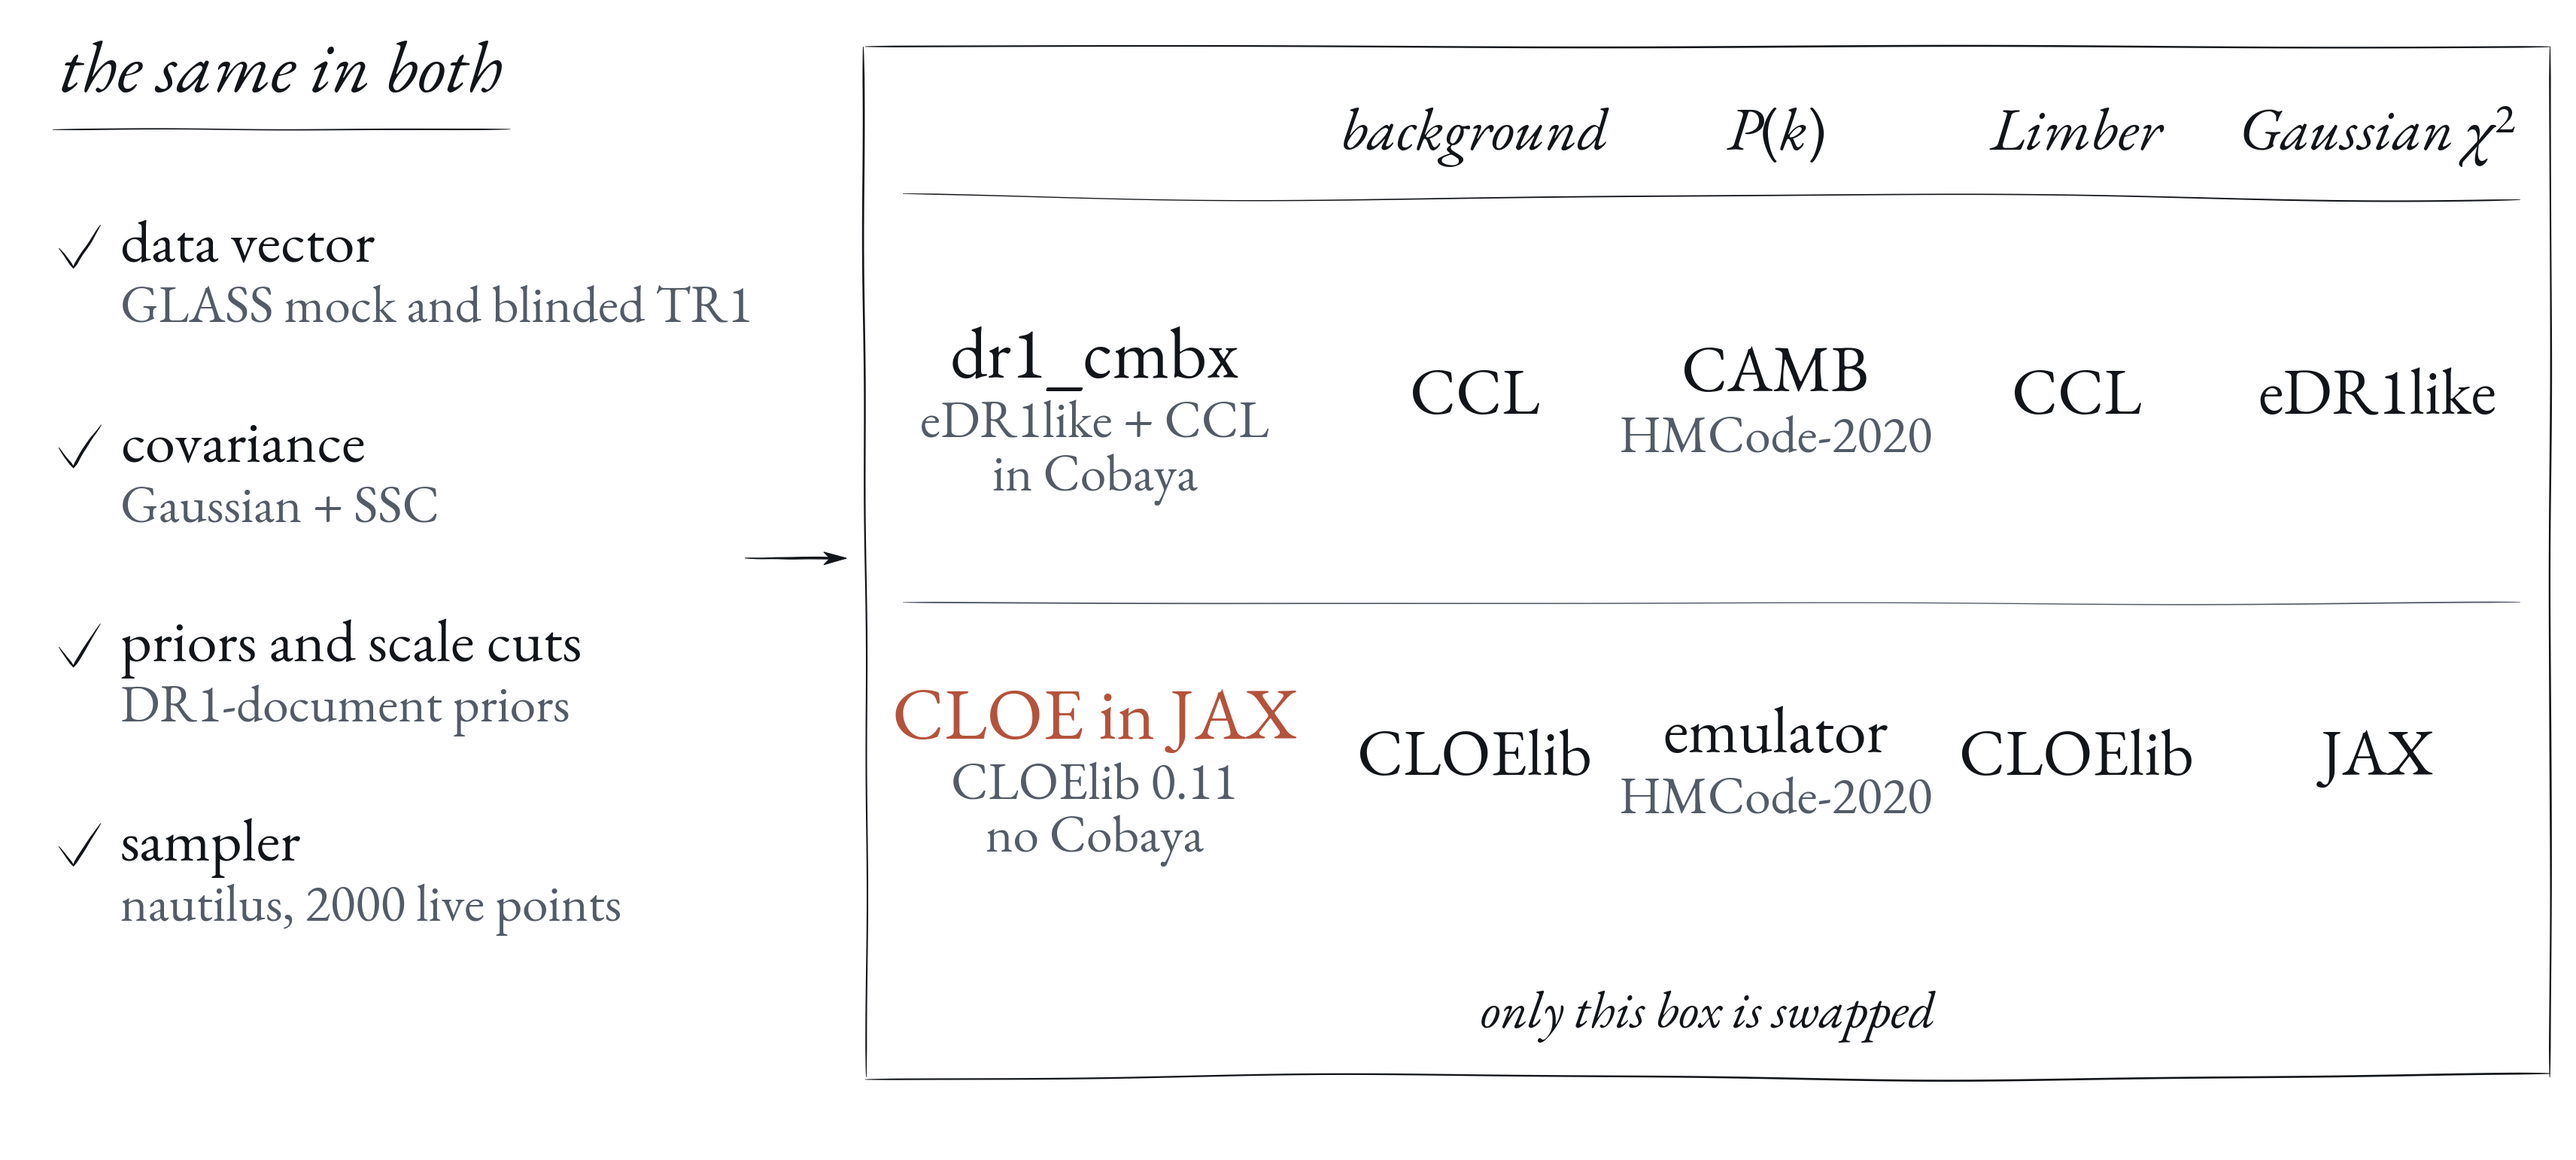
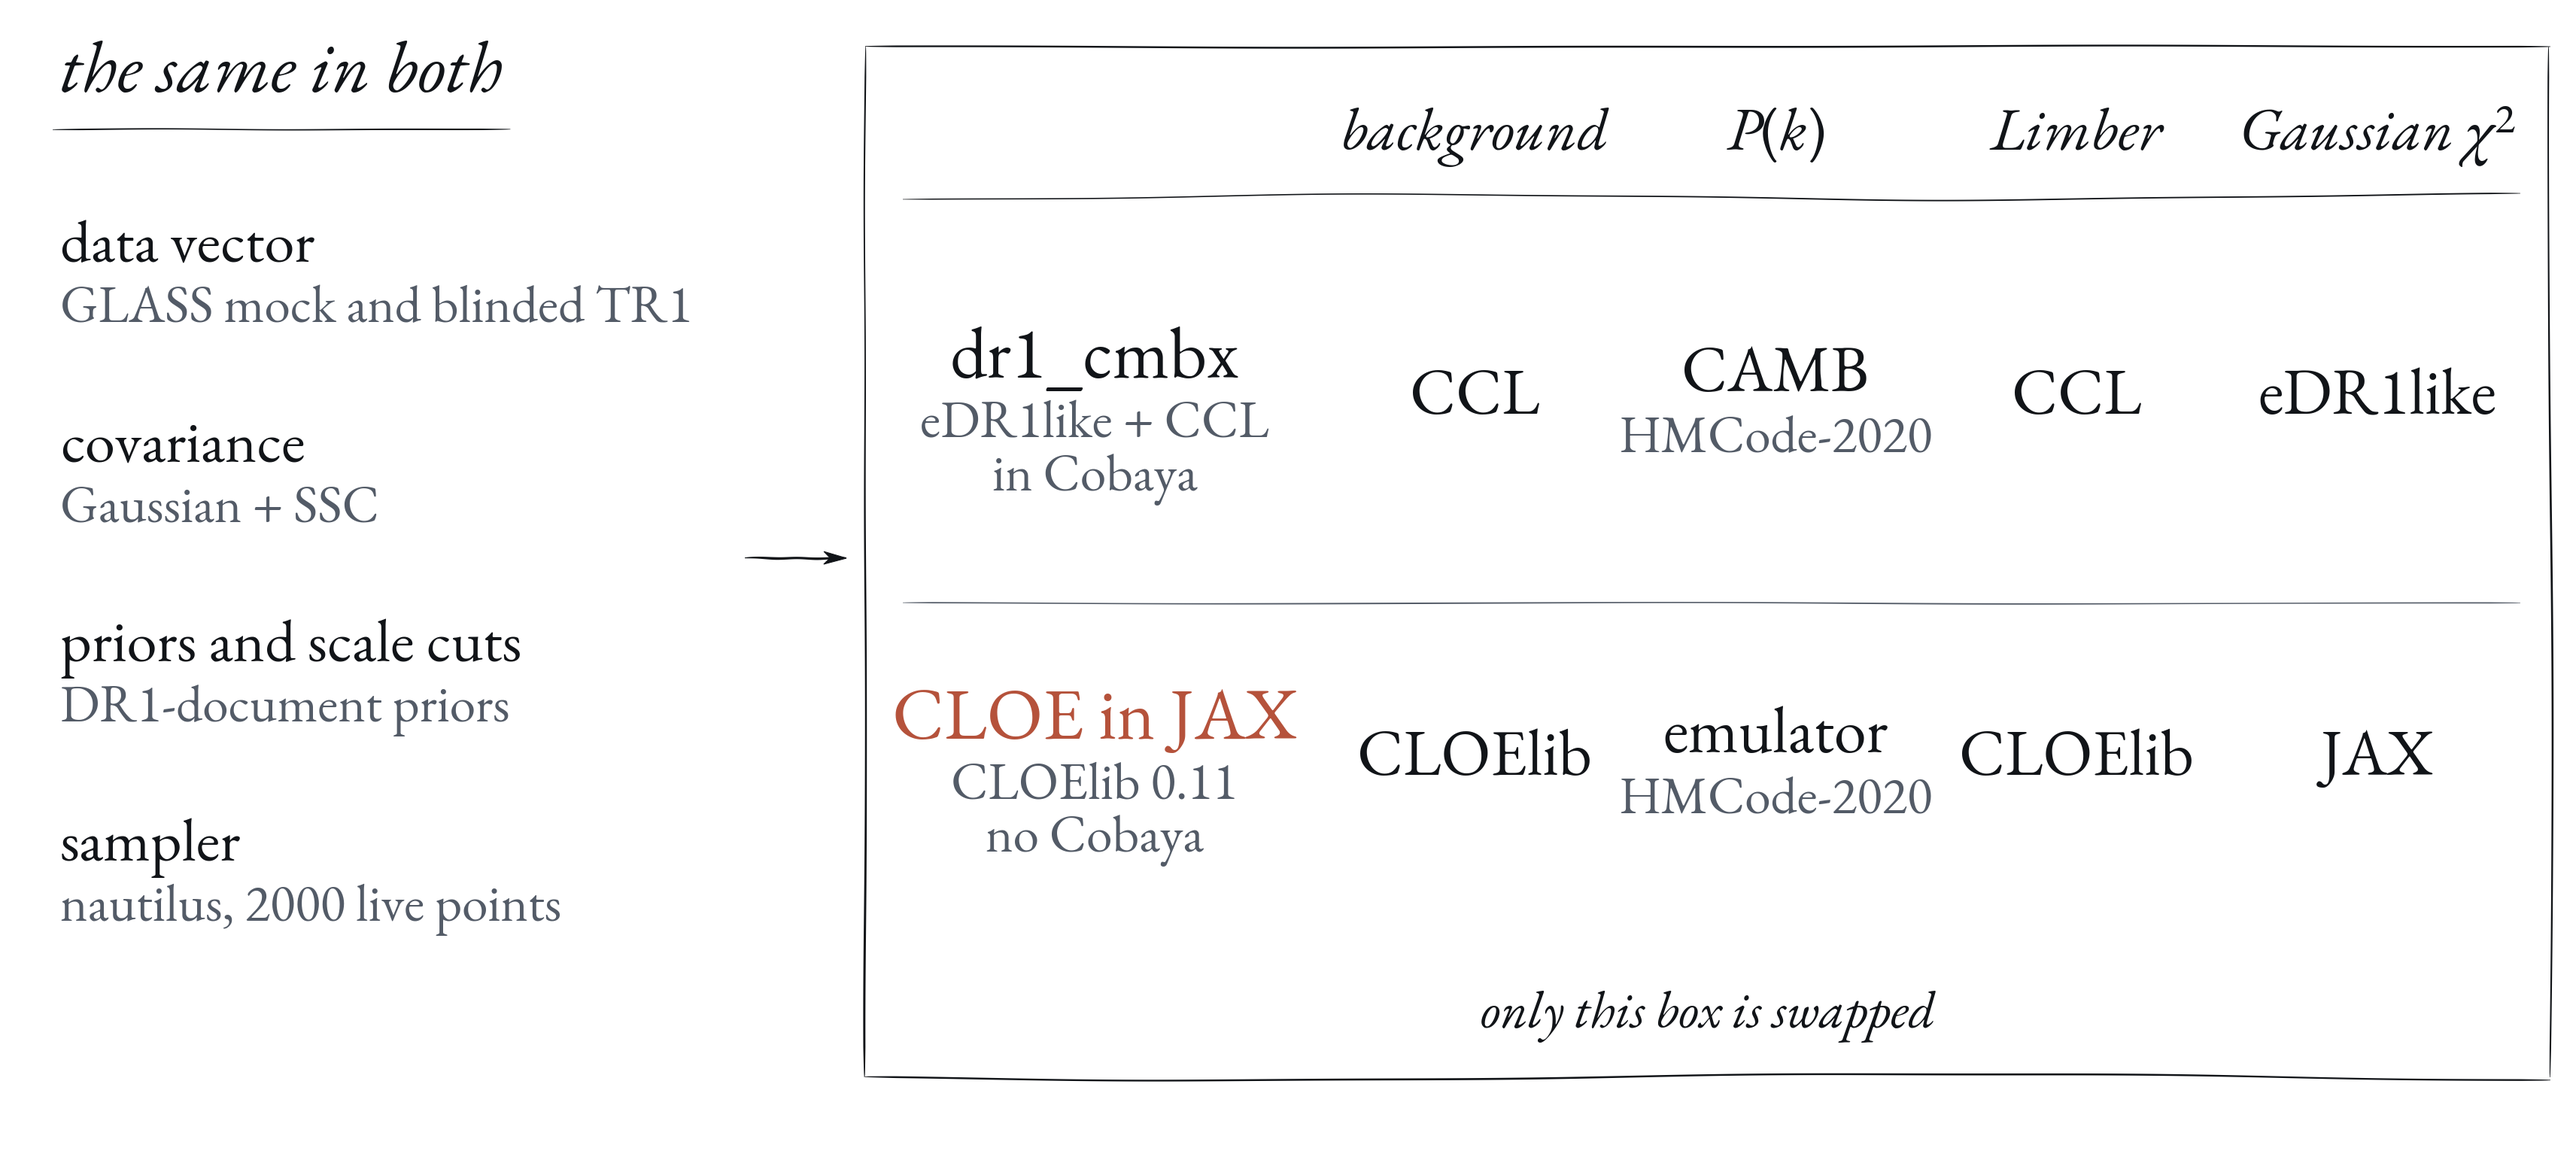
Paris SWG deck: chain sketch splits theory into background, P(k, z) and the Limber integral; no ticks on the two-likelihoods sketch
Claude-Session: https://claude.ai/code/session_01JK7o9DXfGPZtTDC4WevrY1

diff --git a/2611_Paris_SWG/slides/cloe-anatomy.html b/2611_Paris_SWG/slides/cloe-anatomy.html
@@ -1,14 +1,14 @@
 <section data-layout="figure">
   <h2>Three levels of a cosmology chain</h2>
   <figure>
-    <img src="images/paris26_sketch_anatomy.png" alt="Sketch of a chain as one loop of three arrows: the nautilus sampler, over 38 parameters, proposes theta; the theory, cosmology and nuisances through the Limber projection to the 5×2pt bandpowers (90 pairs, 651 bands, no κκ), predicts t(theta); the Gaussian likelihood, chi-squared of the data d minus t(theta) with the Gaussian plus SSC covariance C, returns ln L to the sampler, which proposes again">
+    <img src="images/paris26_sketch_anatomy.png" alt="Sketch of a chain as one loop of three arrows: the nautilus sampler, over 38 parameters, proposes theta; the theory takes cosmology and nuisances to the background (the geometry) and P(k, z) (the structure), projects them with the Limber line-of-sight integral to the 5×2pt bandpowers (90 pairs, 651 bands, no κκ) and so predicts t(theta); the Gaussian likelihood, chi-squared of the data d minus t(theta) with the Gaussian plus SSC covariance C, returns ln L to the sampler, which proposes again">
   </figure>
   <aside class="notes">
     <ul class="skim">
       <li><strong>The loop</strong> — one evaluation goes once around: the sampler proposes a point $\theta$, the theory predicts the data vector $t(\theta)$ there, the likelihood compares it with the data and returns $\ln L$, and the sampler uses it to propose the next point.</li>
       <li><strong>Sampler</strong> — nautilus (nested sampling) draws a point $\theta$ in the 38 sampled parameters of the TR1 data chains (37 on the GLASS mock, where $\log T_\mathrm{AGN}$ is fixed) and receives $\ln L$.</li>
       <li><strong>Likelihood</strong> — Gaussian: $\ln L = -\tfrac12 (d - t)^\mathsf{T} C^{-1} (d - t)$, with $d$ the measured bandpowers and $C$ the production Gaussian + SSC covariance.</li>
-      <li><strong>Theory</strong> — the theory vector $t(\theta)$: the background ($H(z)$, $\chi(z)$) and $P(k, z)$ of the cosmology (CAMB with HMCode, or the emulator), with the nuisances, projected (Limber) to $C_\ell$ and through the bandpower windows.</li>
+      <li><strong>Theory</strong> — the theory vector $t(\theta)$, in three pieces. The background is the geometry: the expansion rate $H(z)$ and the distances $\chi(z)$ that follow from it. $P(k, z)$ is the structure: how strongly matter is clustered at each scale and each time (CAMB with HMCode, or the emulator). The Limber projection turns the two into what is seen on the sky: for each pair of tracers, an integral along the line of sight, so also back through time, of $P(k, z)$ weighted by where each tracer's signal comes from (the redshift distribution for positions, the lensing efficiency for shear and κ). The result is $C_\ell$, then passed through the bandpower windows.</li>
       <li><strong>Vector</strong> — 5×2pt after scale cuts: shear × shear, shear × positions, positions × positions, κ × shear and κ × positions; 90 pairs, 651 bands. κκ is not included yet.</li>
       <li><strong>Where a likelihood code sits</strong> — the theory and the likelihood levels together are what "Cobaya" (eDR1like with CCL) and "CLOE in JAX" each provide; the sampler is nautilus for both in what follows.</li>
     </ul>

diff --git a/2611_Paris_SWG/slides/cloe-swap.html b/2611_Paris_SWG/slides/cloe-swap.html
@@ -1,7 +1,7 @@
 <section data-layout="figure">
   <h2>The same chain with two likelihoods</h2>
   <figure>
-    <img src="images/paris26_sketch_swap.png" alt="Sketch: data vector, Gaussian plus SSC covariance, priors and scale cuts, and the nautilus sampler with 2000 live points are the same in both chains; only the theory and likelihood box is swapped. dr1_cmbx (eDR1like + CCL in Cobaya) computes the background and the Limber projection with CCL, P(k) with CAMB HMCode-2020, and scores with eDR1like. CLOE in JAX (CLOElib 0.11, no Cobaya) computes the background and the Limber projection with CLOElib, P(k) with the HMCode-2020 emulator, and scores with a Gaussian chi-squared in JAX">
+    <img src="images/paris26_sketch_swap.png" alt="Sketch: data vector, Gaussian plus SSC covariance, priors and scale cuts, and the nautilus sampler with 2000 live points are listed as the same in both chains; only the theory and likelihood box is swapped. dr1_cmbx (eDR1like + CCL in Cobaya) computes the background and the Limber projection with CCL, P(k) with CAMB HMCode-2020, and scores with eDR1like. CLOE in JAX (CLOElib 0.11, no Cobaya) computes the background and the Limber projection with CLOElib, P(k) with the HMCode-2020 emulator, and scores with a Gaussian chi-squared in JAX">
   </figure>
   <aside class="notes">
     <ul class="skim">

diff --git a/2611_Paris_SWG/make_cloe_sketches.py b/2611_Paris_SWG/make_cloe_sketches.py
@@ -377,17 +377,22 @@ def anatomy():
     p.text(sx, 590, "nautilus", size=BODY)
     p.text(sx, 515, "38 parameters", size=SMALL, color=MUTED)
 
-    # theory: cosmology and nuisances through the Limber projection to the bandpowers
+    # theory: the background (geometry) and P(k, z) (structure), projected along the line of sight
     tx = 3010
     p.heading(tx, 1300, "theory")
     p.text(tx, 1110, "cosmology + nuisances", size=BODY)
-    p.arrow((tx, 1010), (tx, 920), size=24, w=WEIGHT * 0.8)
-    p.ring(tx, 830, 180, 82, w=WEIGHT * 0.8)
-    p.text(tx, 830, "Limber", size=BODY)
-    p.arrow((tx, 745), (tx, 655), size=24, w=WEIGHT * 0.8)
-    p.text(tx, 590, "5×2pt bandpowers", size=BODY)
-    p.text(tx, 515, "90 pairs, 651 bands", size=SMALL, color=MUTED)
-    p.text(tx, 438, r"no $\kappa\kappa$", size=SMALL, color=MUTED)
+    p.arrow((tx, 1050), (tx, 985), size=24, w=WEIGHT * 0.8)
+    for x, name, sub in [(tx - 200, "background", "the geometry"), (tx + 200, r"$P(k, z)$", "the structure")]:
+        p.text(x, 920, name, size=BODY)
+        p.text(x, 845, sub, size=SMALL, color=MUTED)
+    p.arrow((tx, 790), (tx, 730), size=24, w=WEIGHT * 0.8)
+    p.ring(tx, 650, 180, 72, w=WEIGHT * 0.8)
+    p.text(tx, 650, "Limber", size=BODY)
+    p.text(tx, 530, "line-of-sight integral", size=SMALL, color=MUTED)
+    p.arrow((tx, 480), (tx, 420), size=24, w=WEIGHT * 0.8)
+    p.text(tx, 360, "5×2pt bandpowers", size=BODY)
+    p.text(tx, 285, "90 pairs, 651 bands", size=SMALL, color=MUTED)
+    p.text(tx, 215, r"no $\kappa\kappa$", size=SMALL, color=MUTED)
 
     # likelihood: the data vector and the covariance, compared with t(theta)
     p.heading(cx, 990, "likelihood")
@@ -427,9 +432,8 @@ def swap():
              ("sampler", "nautilus, 2000 live points")]
     y = 1210
     for head, sub in items:
-        check(p, 78, y + 2, size=56)
-        p.text(160, y, head, size=BODY, ha="left")
-        p.text(160, y - 82, sub, size=SMALL, ha="left", color=MUTED)
+        p.text(80, y, head, size=BODY, ha="left")
+        p.text(80, y - 82, sub, size=SMALL, ha="left", color=MUTED)
         y -= 265
 
     # the swapped box
